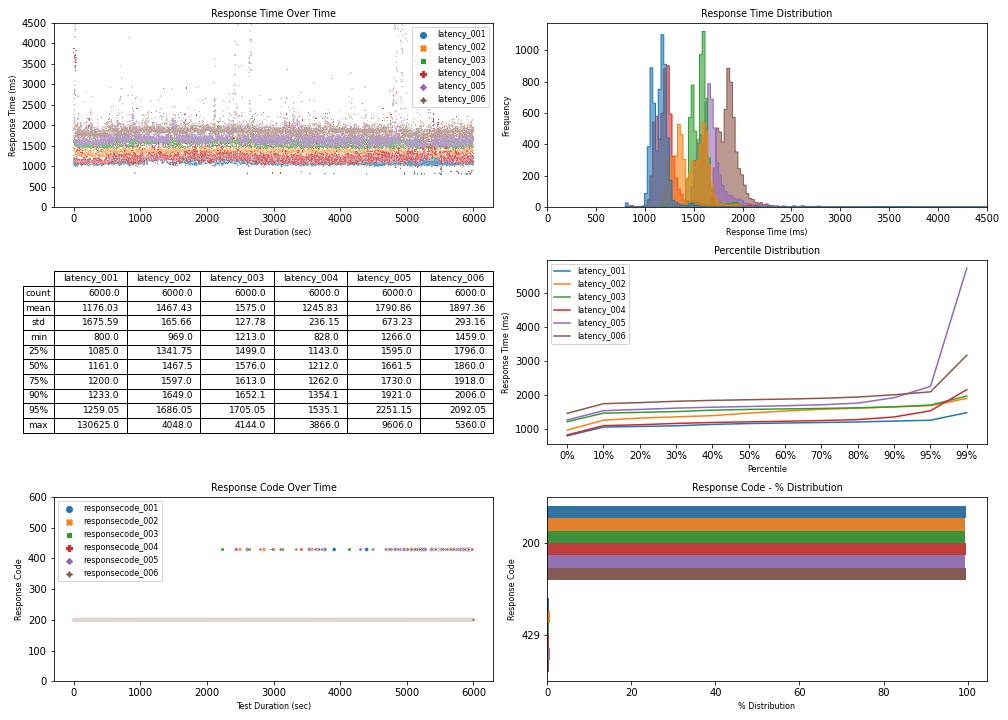
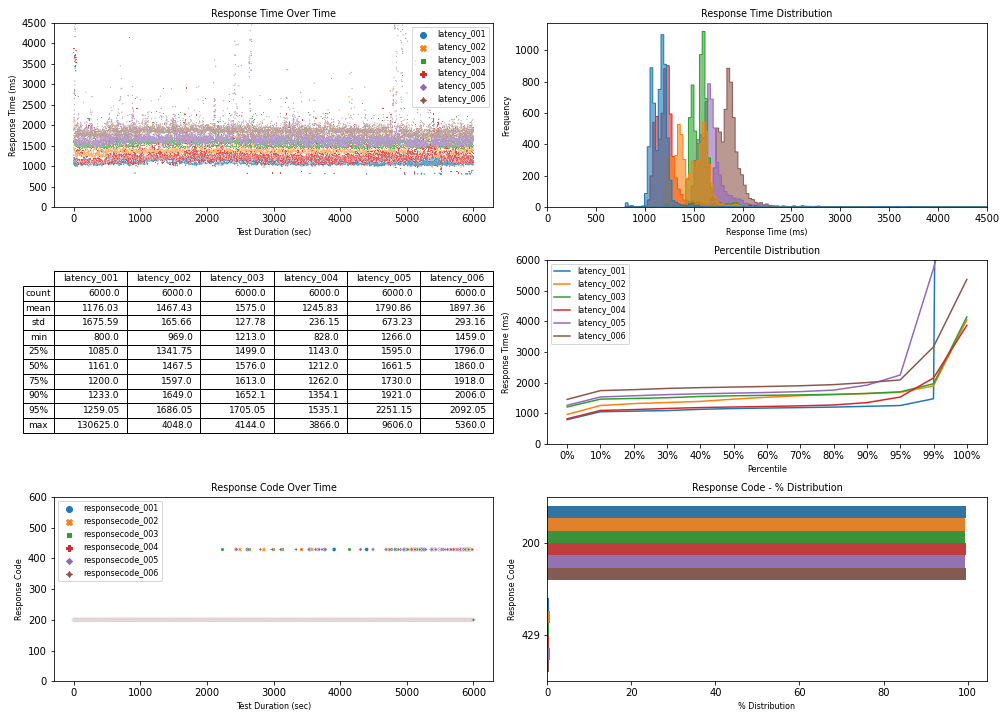
updated script
updated the ylimit for the percentile distribution graph

Changed region(s): [[0.4921, 0.3667, 0.9841, 0.6417], [0.4921, 0.3972, 0.5536, 0.4583]]

diff --git a/neocortix_jmeter_multi_graphs.py b/neocortix_jmeter_multi_graphs.py
@@ -109,7 +109,7 @@ def generate_graphs():
         summary = np.round(hist_df.describe(percentiles=[0.0, 0.1, 0.2,
                                                          0.3, 0.4, 0.5,
                                                          0.6, 0.7, 0.8,  
-                                                         0.9, 0.95, 0.99]),2) # add 1 in the percentile
+                                                         0.9, 0.95, 0.99, 1]),2) # add 1 in the percentile
         dropping = ['count', 'mean', 'std', 'min','max'] #remove metrics not needed for percentile graph
         
         for drop in dropping:
@@ -117,6 +117,7 @@ def generate_graphs():
         
         ax = sns.lineplot(ax=axes[1, 1],data=summary,dashes=False)
         ax.legend(fontsize='medium')
+        ax.set(ylim=(0,6000))
         ax.set_title('Percentile Distribution')
         ax.set_xlabel('Percentile')
         ax.set_ylabel('Response Time (ms)')
